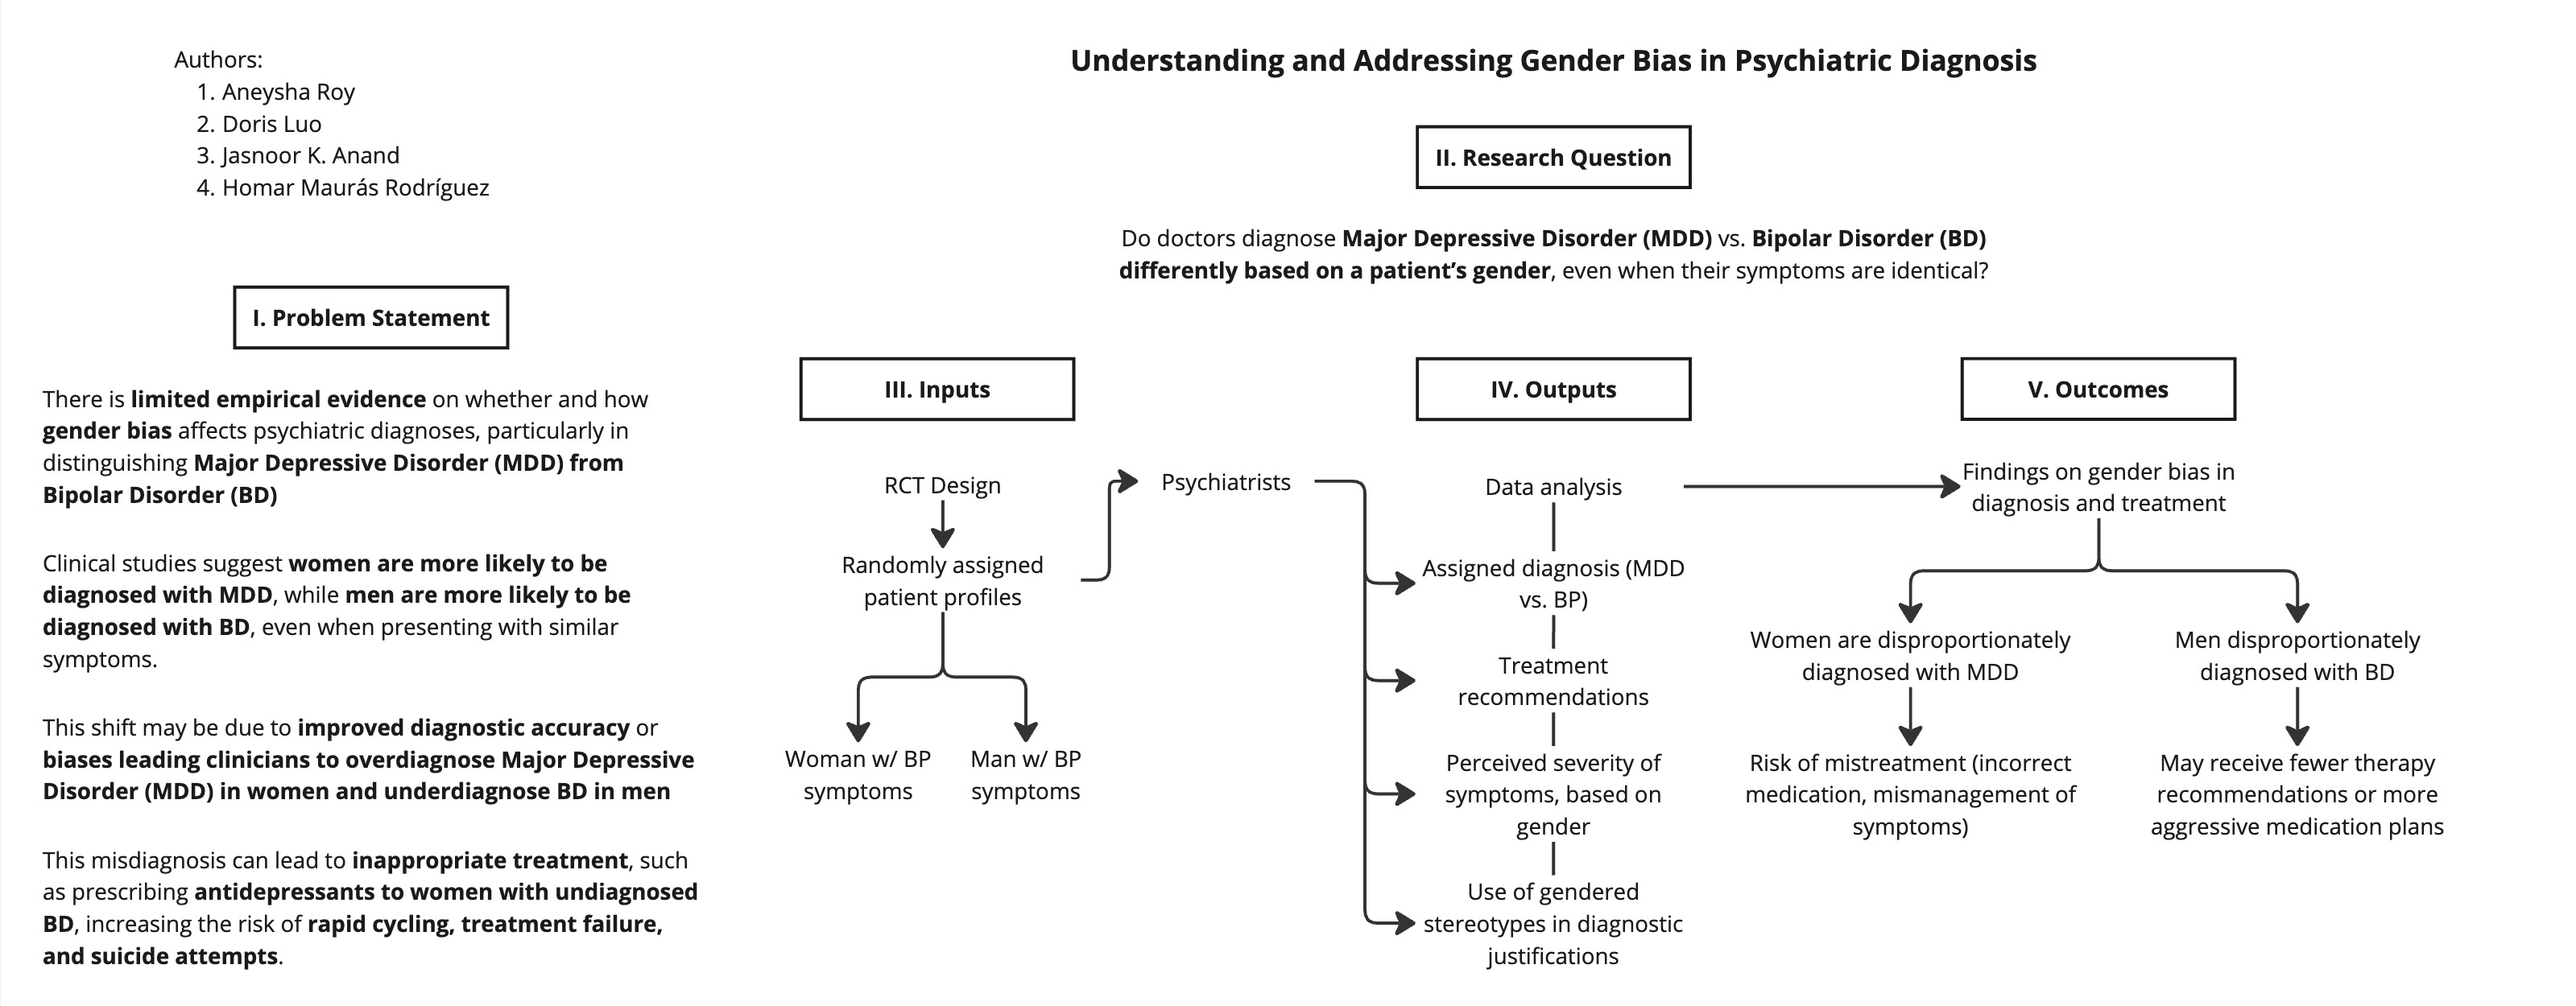
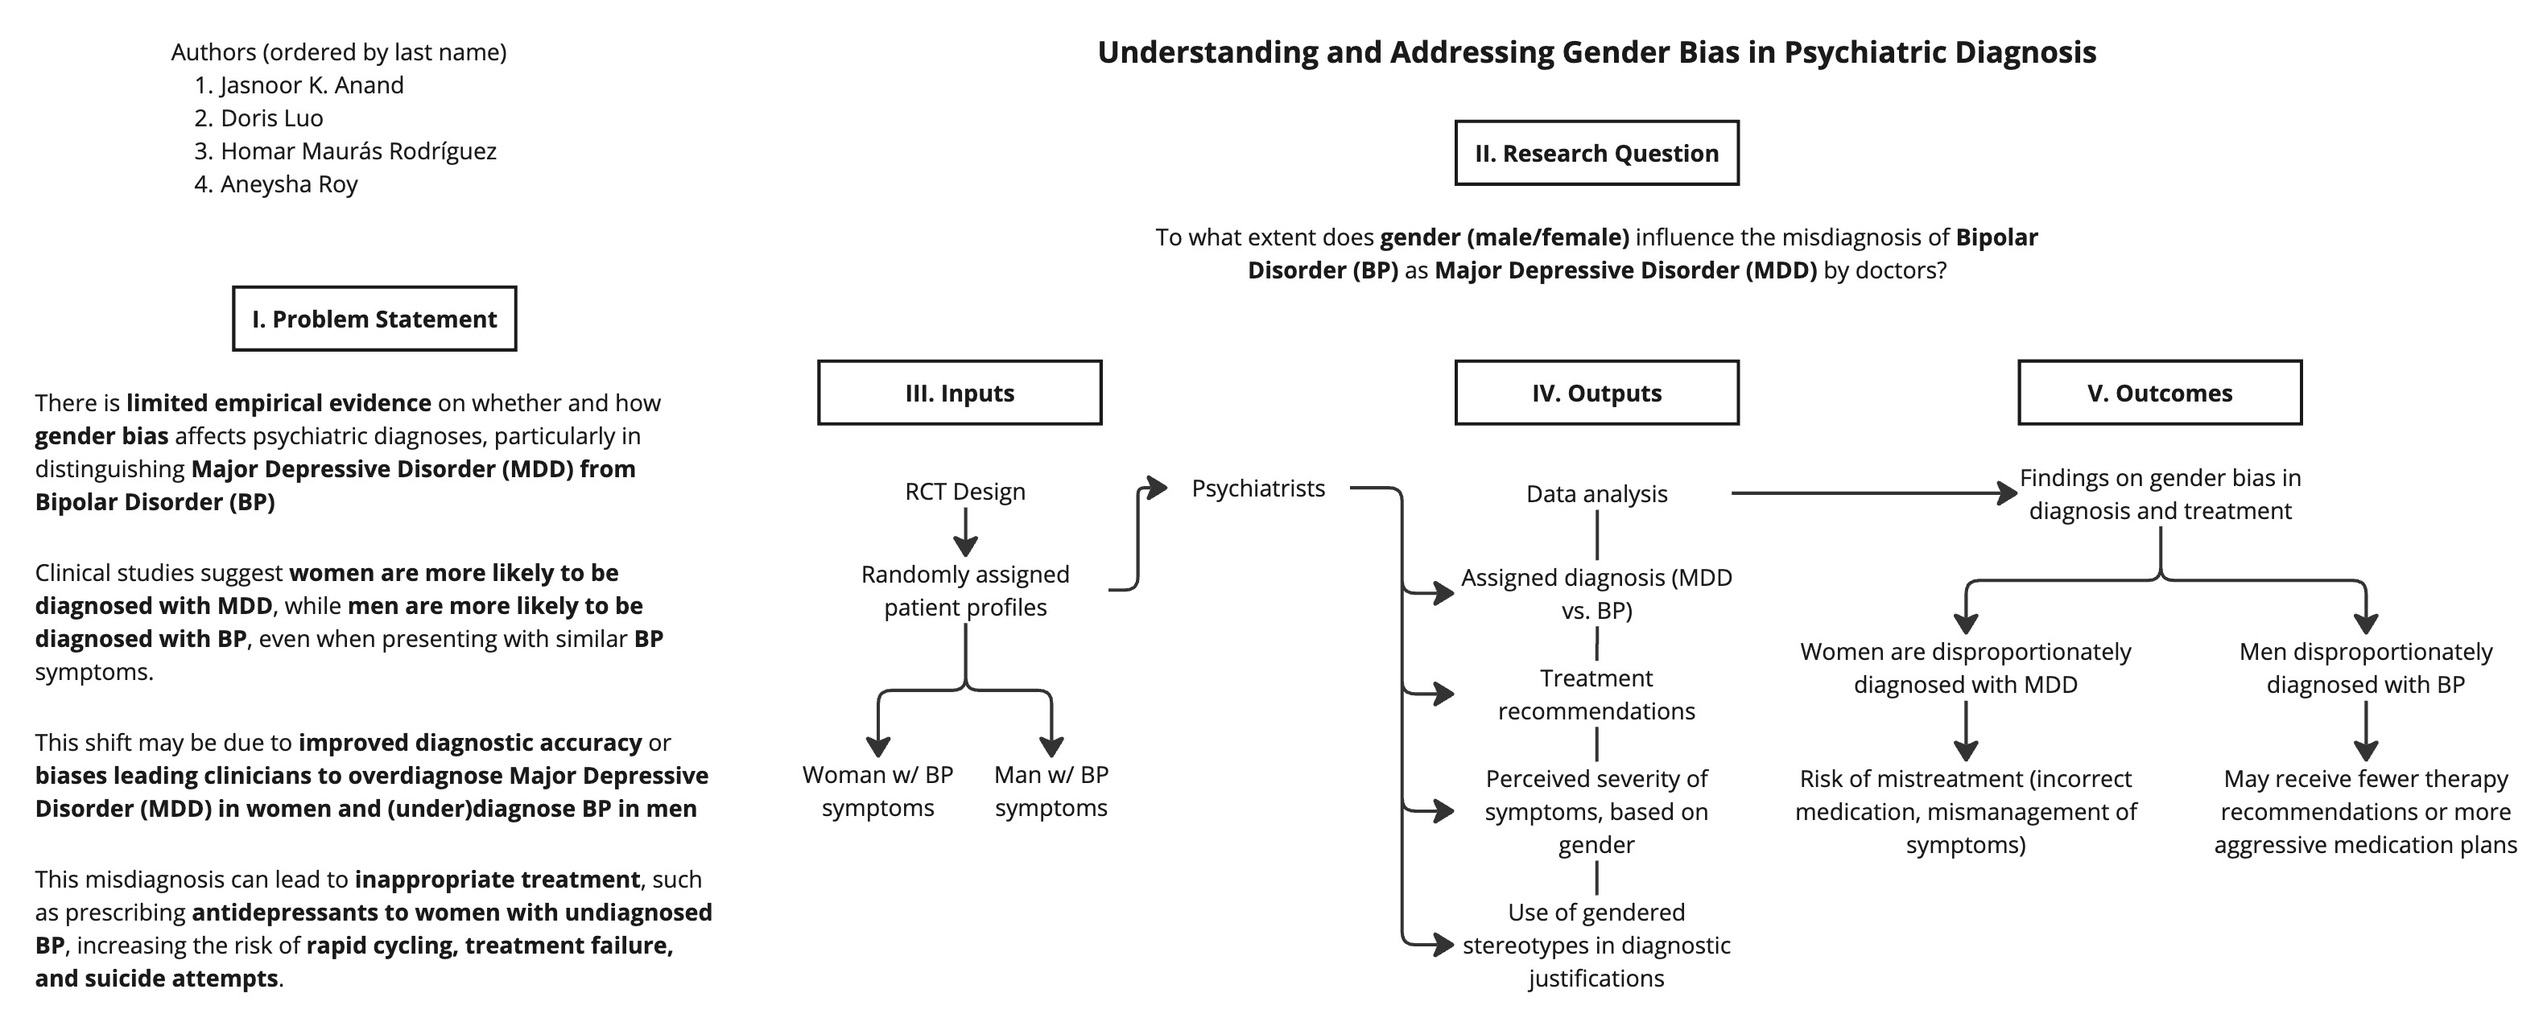
update revised toc
update revised toc

diff --git a/toc/documents/check-in_2.md b/toc/documents/check-in_2.md
@@ -1,0 +1,42 @@
+**Check-in 2: Finalize Intervention**
+
+Group 4: Gender  
+Members: Jasnoor Anand, Doris Luo, Homar Mauras, Aneysha Roy
+
+**RCT: Gender Bias in Psychiatric Diagnosis**
+
+1. Research Question: To what extent does gender (male/female) influence the misdiagnosis of Bipolar Disorder (BP) as Major Depressive Disorder (MDD) by doctors?  
+2. Hypotheses:   
+   1. H1: Women with BP symptoms are more likely to be diagnosed with Major Depressive Disorder (MDD), even when symptoms are the same as male counterparts.  
+      1. Studies across time show that BP are often initially misdiagnosed and many remain misdiagnosed for even a decade (Hirschfeld et al., 2003; Lish et al., 1994; Singh and Rajput 2006).   
+      2. Empirical evidence demonstrates that females with BP are more likely to be misdiagnosed as MDD (Culpepper 2014; Dell’Osso et al., 2021; Lish et al. 1994; Hirschfeld et al. 2003).  
+      3. However, there is limited evidence on the reasons behind such gender disparities in misdiagnosis of BP.   
+      4. While some recent studies find that more rigorous diagnosis processes (such as more rigorous checklists and steps) may improve the diagnosis rate of BP, there is no explicit research on LIMCs.  
+      5. Our research aims to fill the gaps mentioned above.  
+   2. H2: Women with BP symptoms are more likely to be misdiagnosed as MDD because of gender difference in symptom presentation rather than gender bias.  
+   3. H3: There is no significant gender bias in doctors’ misdiagnosis of Bipolar Disorder (BP) as Major Depressive Disorder (MDD).  
+3. Experimental Setting:  
+   1. Study Population: psychiatrists, or mental health professionals in diverse healthcare settings (e.g., private clinics, public hospitals).  
+   2. Country: Argentina  
+4. Vignette Design:  
+   1. There are two type of patient cases, and the only difference is the patient’s gender (either male or female):  
+      1. Male patients  
+      2. Female patients  
+   2. All symptoms, history, and contextual information remain identical across vignettes and align with DSM-5 diagnostic criteria for both major depressive disorder and bipolar disorder:  
+      1. Depressed mood  
+      2. Fatigue, low energy  
+      3. Difficulty concentrating  
+      4. Sleep disturbance (insomnia or hypersomnia)  
+      5. No substance use  
+      6. No major medical conditions  
+5. Randomization:  
+   1. Each doctor is randomly assigned to evaluate one of the two vignettes.  
+   2. Randomization is stratified by relevant psychiatrist characteristics (eg. years of experience, specialization, rural vs urban, public vs private hospitals).  
+6. Outcome Measures  
+   1. Primary outcomes:  
+      1. The doctors’ diagnosis  
+   2. Secondary outcomes:  
+      1. The doctors’ perception of the severity of the patient’s symptoms   
+         1. Do doctors perceive the severity of the patients’ symptoms differently?  
+      2. Treatment recommendations  
+      3. Do they mention gendered stereotypes (e.g., "Men don’t like therapy" or "Women handle emotions better")?
